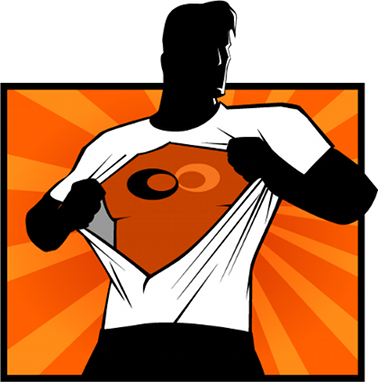
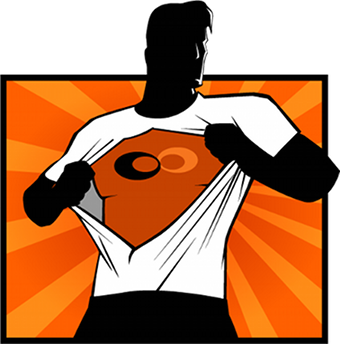
Resized and moved supergeek image on internship page

diff --git a/join_us/internship/index.html b/join_us/internship/index.html
@@ -4,7 +4,7 @@ section_id: internship
 title: Internship Program
 impact:
   title: INTERNSHIP PROGRAM
-  background: url(/assets/images/supergeek.png) center bottom no-repeat
+  background: url(/assets/images/supergeek.png) 5em 7em no-repeat
   class: band-colors orange-band
   text: |
     <h2 id='looking-for'>We’re looking for great problem solvers with experience in:</h2>
